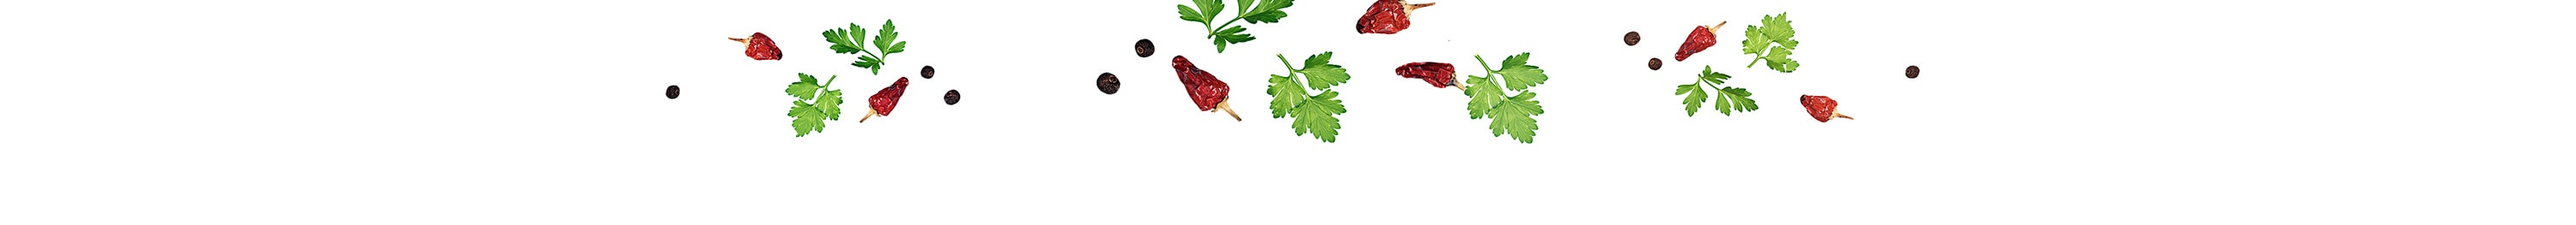
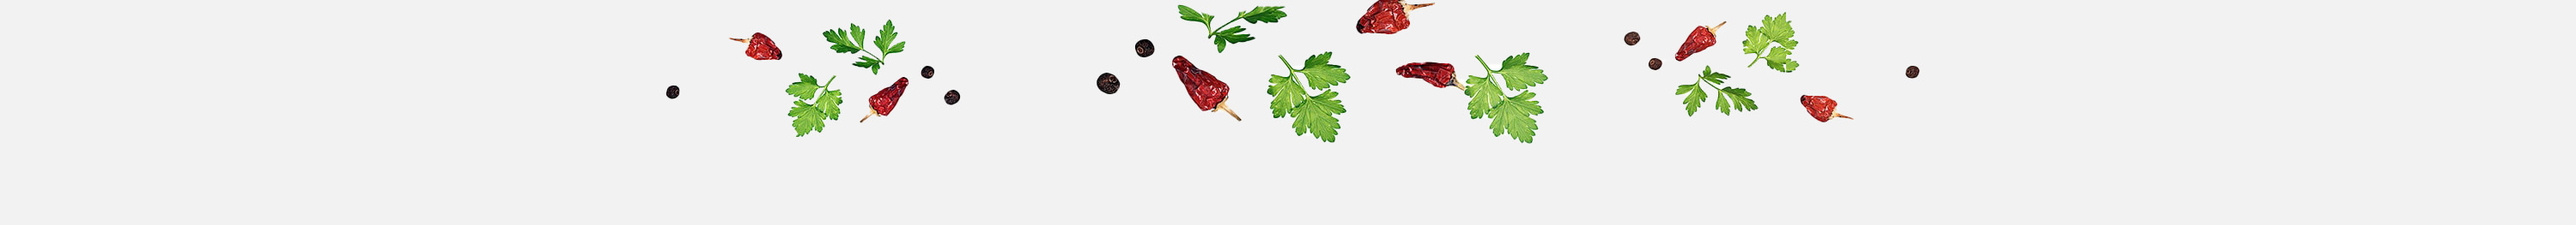
update

diff --git a/index.html b/index.html
@@ -422,10 +422,10 @@
             <div class="position-absolute left-0px w-100 text-center top-minus-90px lg-top-minus-60px xs-top-minus-20px opacity-2 ls-minus-10px lg-ls-minus-1px fs-350 lg-fs-250 xs-fs-200 text-nowrap alt-font text-uppercase">Lezzet
             </div>
             <div class="position-absolute left-minus-50px mt-15 d-none d-xl-inline-block" data-parallax-liquid="true" data-parallax-transition="2" data-parallax-position="top">
-                <img src="images/home/about-3.jpg" alt="" data-bottom-top="transform: rotate(-30deg)" data-top-bottom="transform:rotate(10deg)">
+                <img src="images/home/about-3.png" alt="" data-bottom-top="transform: rotate(-30deg)" data-top-bottom="transform:rotate(10deg)">
             </div>
             <div class="position-absolute z-index-minus-1 right-minus-50px xxl-right-minus-100px xl-right-minus-50px xl-w-220px d-none d-xl-inline-block" data-parallax-liquid="true" data-parallax-transition="2" data-parallax-position="bottom">
-                <img src="images/home/about-2.jpg" alt="" data-bottom-top="transform: rotate(-30deg)" data-top-bottom="transform:rotate(10deg)">
+                <img src="images/home/about-2.png" alt="" data-bottom-top="transform: rotate(-30deg)" data-top-bottom="transform:rotate(10deg)">
             </div>
             <div class="container">
                 <div class="row align-items-center mb-4 lg-mb-6 lg-mt-5">

diff --git a/css/custom.css b/css/custom.css
@@ -1,3 +1,7 @@
+body{
+    background-color: #f2f2f2 !important;
+}
+
 /**---------------------------------------header---------------------------------------*/
 
 .bg-gradient-dark-transparent {
